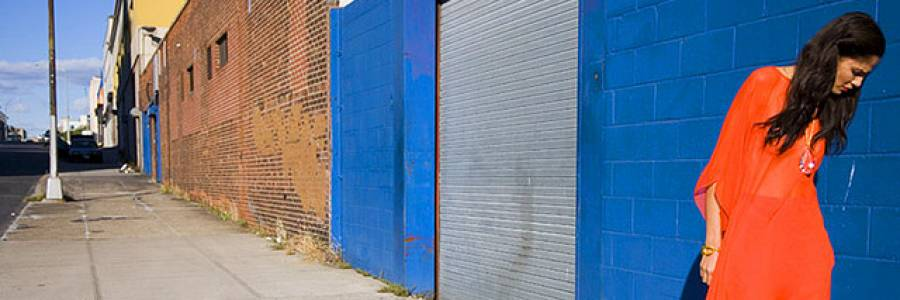
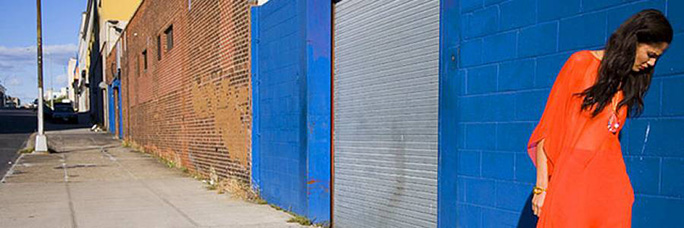
Resized Fashion images and added About Me.

diff --git a/resume/index.html b/resume/index.html
@@ -1,80 +1,36 @@
 <!DOCTYPE html>
-<html>
+<html lang="en">
+	<head>
+  	<meta charset="utf-8">
+  	<meta name="description" content="A simple example of how Javascript can manipulate DOM.">
+    <meta name="keywords" content="General Assembly, Javascript, JS">
 
-<head>
-  <title>Mai Hoang's Resume</title>
-</head>
+   		<title>About Me</title>
 
-<body>
+    <link href='http://fonts.googleapis.com/css?family=Nixie+One' rel='stylesheet' type='text/css'>
+		<link rel="stylesheet" href="css/reset.css">
+		<link rel="stylesheet" href="css/style.css">
 
-<br>
-<br>
+	</head>
+	<body>
+		<div id="container">
+      <header><h3>Mai N. Hoang</h3></header>
+      <p class="centeredimg"><img src="resume.jpg" title="In deep thought about ZZZzzz..."></p>
+      <div class="gianttex">About me...</div>
+      <div class="bigtex">Fashion Designer/Pattern Maker by day,<br>
+        Bartender/Therapist by night,<br>
+        And Front End Developer in the making...</div>
+        <p>Born in Hong Kong & raised in Houston, Tx; I am currently based in the lovely city of Los Angeles.
+          I love all things logic & design.
+          In my spare time, I enjoy spending time with my pups, cooking, & traveling.</p>
+          <div>
+                <a href="resume.html" class="button">Check out my resume!</a>
+          </div>
+          <footer>
+    <p>&copy; Mai N. Hoang</p>
+  </footer>
 
-<header>
-<center>
-  <span style="font-size: 24px;"><b><u>Mai N. Hoang</u></b></span><br>
-  516 S. Alexandria Ave Apt 107, Los Angeles, CA 90020<br>
-  (832) 677-0935<br>
-  <a href="http://mnhoang.80@gmail.com">mnhoang.80@gmail.com</a>
-</center>
-</header>
-
-<br>
-
-<section>
-<h1><center><u>Certifications & Technical Skills</u></center></h1>
-<ul>
-  <li>ServSafe Alcohol Certification</li>
-  <li>California Food Handler Certification</li>
-  <li>Proficient in Aloha POS & Digital Dining POS Systems</li>
-</ul>
-</section>
-
-<section>
-<h1><center><u>Experience</u></center></h1>
-<ul>
-  <li><b>Rocco's Tavern</b> - Culver City, CA - (310) 559-5500<br>
-    2012 - Present.  <i>Bartender.</i></li>
-  <li><b>The Dog House Tavern</b> - Houston, TX - (713) 520-1118<br>
-    2008 - 2011.  <i>Bartender.</i></li>
-  <li><b>The Tavern on West Gray</b> - Houston, TX - (713) 522-5152<br>
-    2006 - 2011.  <i>Bartender.</i></li>
-  <li><b>Arturo's Uptown Italiano</b> - Houston, TX - (713) 621-1180<br>
-    2005 - 2008.  <i>Bartender.</i></li>
-  <li><b>The Fish</b> - Houston, TX - (713) 526-5294<br>
-    2004 - 2006.  <i>Bartender.</i></li>
-  <li><b>Little Woodrows</b> - Houston, TX - (713) 520-0449<br>
-    2001 - 2005.  <i>Bartender.</i></li>
-</section>
-
-<section>
-<center>
-<h1><u>Education</u></h1>
-<p><b>Houston Community College</b><br>
-  1999 - 2001. Studied Graphic Design & Web Development.</p>
-<p><b>Los Angeles Trade Technical College</b><br>
-  2012 - 2014. Graduated with Associate in Arts, Fashion Design.</p>
-</center>
-</section>
-
-<footer>
-<center>
-<h2><u>References</u></h2>
-<p><b>Michael Collins, </b><i>Owner / Operator.</i><br>
-    The Fish - (832) 573-6922<br>
-   <b>Yeme Deneke, </b><i>Food & Beverage Director.</i><br>
-    Crowne Plaza Hotel - (832) 603-3667<br>
-   <b>Greg Lehmann, </b><i>Owner / Operator.</i><br>
-    The Dog House Tavern - (713) 203-2736<br>
-   <b>Will Smith, </b><i>Owner / Operator.</i><br>
-    Little Woodrows - (512) 825-6786<br>
-   <b>Charlie Watkins, </b><i>Owner / Operator.</i><br>
-    The Tavern on West Gray - (713) 291-1654</p>
-</center>
-</footer>
-
-<br>
-<br>
-
-</body>
+		</div><!-- #container -->
+		<script src="js/app.js"></script>
+	</body>
 </html>

diff --git a/fashion_blog_part1/index.html b/fashion_blog_part1/index.html
@@ -1,5 +1,5 @@
 <!--Add CSS to the page. When complete it should look like Fashion_Blog.png
-Do you see new tags? Look them up so you are growing your tag vocabulary. 
+Do you see new tags? Look them up so you are growing your tag vocabulary.
 Bonus: Google <footer> </footer> tag and implement the page footer.
 Add Google Fonts.
 -->
@@ -9,37 +9,56 @@ Add Google Fonts.
 <head>
 	<meta charset="utf-8">
 	<title>Sartre’s List</title>
-	
+	<link href='http://fonts.googleapis.com/css?family=Lato:300' rel='stylesheet' type='text/css'>
+	<link rel="stylesheet" href="css/style.css">
 </head>
 <body>
+	<div id="container">
 	<header>
-		<h1><a href="index.html">Sartre’s List</a></h1>
+		<h1><a href="index.html" class="link">Sartre’s List</a></h1>
 		<h2>Better-Dressed People</h2>
 		<nav>
-			<a href="#">Women’s</a>
-			<a href="#">Men’s</a>
-			<a href="#">On the Street</a>
-			<a href="#">The Catwalk</a>
-			<a href="#">AdWatch</a>
-			<a href="#">About</a>
+			<a href="#" class="link-1">Women’s</a>
+			<a href="#" class="link-1">Men’s</a>
+			<a href="#" class="link-1">On the Street</a>
+			<a href="#" class="link-1">The Catwalk</a>
+			<a href="#" class="link-1">AdWatch</a>
+			<a href="#" class="link-1">About</a>
 		</nav>
 	</header>
 
 	<article>
 		<h3>11/12/13</h3>
 		<h2><a href="#">On the Street in Brooklyn</a></h2>
-		<img src="INSERT IMG and PATH">
+		<img src="fashion_photo.jpeg">
 		<p>Cray culpa stumptown, flexitarian ex Odd Future do fugiat Wes Anderson proident 3 wolf moon officia bitters small batch. Et consequat do, nulla you probably haven’t heard of them High Life scenester. Vinyl fugiat High Life, kogi do VHS in aliqua lo-fi leggings gentrify Neutra tumblr. Odio vegan PBR, Marfa forage blue bottle try-hard readymade meggings retro delectus Echo Park. Ugh consectetur farm-to-table forage, laboris blue bottle McSweeney’s tattooed excepteur yr. Magna ut Schlitz flexitarian, vinyl craft beer proident yr forage 8-bit ethical sustainable placeat retro. Officia pickled beard, adipisicing gluten-free sint craft beer quis thundercats id 3 wolf moon fashion axe.</p>
-		<h4><a href="#">Continues...</a></h4>
+		<h4><a href="#" class="link">Continues...</a></h4>
 	</article>
 
 	<article>
 		<h3>11/11/13</h3>
 		<h2><a href="#">Vintage in Vogue</a></h2>
-		<img src="INSERT IMG and PATH">
+		<img src="fashion_photo2.jpeg">
 		<p>Selfies sunt Tumblr, delectus small batch DIY umami sint. Polaroid chambray selfies McSweeney's Cosby sweater, Pitchfork tattooed assumenda Wes Anderson Blue Bottle twee Carles ennui. Nisi locavore fugiat sapiente salvia aliqua. Shoreditch kogi exercitation fashion axe. Wolf semiotics Pinterest, laboris quis master cleanse tousled small batch street art bespoke fingerstache dreamcatcher ethical labore. Dreamcatcher iPhone typewriter, tote bag four loko fanny pack master cleanse organic PBR reprehenderit actually. Craft beer drinking vinegar wayfarers, pork belly narwhal pariatur polaroid cupidatat in 8-bit distillery anim literally.</p>
-		<h4><a href="#">Continues...</a></h4>
+		<h4><a href="#" class="link">Continues...</a></h4>
 	</article>
 
+
+<footer>
+	<nav>
+		<a href="#" class="link">Home</a>
+		<a href="#" class="link">Women’s</a>
+		<a href="#" class="link">Men’s</a>
+		<a href="#" class="link">On the Street</a>
+		<a href="#" class="link">The Catwalk</a>
+		<a href="#" class="link">AdWatch</a>
+		<a href="#" class="link">About</a>
+		<a href="#" class="link">Tips</a>
+	</nav>
+	<p>2013 Valet Industries, Inc.</p>
+
+</footer>
+
+</div>
 </body>
 </html>

diff --git a/resume/resume.html b/resume/resume.html
@@ -1,0 +1,83 @@
+<!DOCTYPE html>
+<html>
+
+<head>
+  <title>Mai Hoang's Resume</title>
+  <link href='http://fonts.googleapis.com/css?family=Nixie+One' rel='stylesheet' type='text/css'>
+  <link rel="stylesheet" href="css/reset.css">
+  <link rel="stylesheet" href="css/style.css">
+</head>
+
+<body>
+
+<br>
+<br>
+
+<header>
+<center>
+  <a href="index.html">Mai N. Hoang</a><br>
+  516 S. Alexandria Ave Apt 107, Los Angeles, CA 90020<br>
+  (832) 677-0935<br>
+  <a href="http://mnhoang.80@gmail.com">mnhoang.80@gmail.com</a>
+</center>
+</header>
+
+<br>
+
+<section>
+<h1><center><u>Certifications & Technical Skills</u></center></h1>
+<ul>
+  <li>ServSafe Alcohol Certification</li>
+  <li>California Food Handler Certification</li>
+  <li>Proficient in Aloha POS & Digital Dining POS Systems</li>
+</ul>
+</section>
+
+<section>
+<h1><center><u>Experience</u></center></h1>
+<ul>
+  <li><b>Rocco's Tavern</b> - Culver City, CA - (310) 559-5500<br>
+    2012 - Present.  <i>Bartender.</i></li>
+  <li><b>The Dog House Tavern</b> - Houston, TX - (713) 520-1118<br>
+    2008 - 2011.  <i>Bartender.</i></li>
+  <li><b>The Tavern on West Gray</b> - Houston, TX - (713) 522-5152<br>
+    2006 - 2011.  <i>Bartender.</i></li>
+  <li><b>Arturo's Uptown Italiano</b> - Houston, TX - (713) 621-1180<br>
+    2005 - 2008.  <i>Bartender.</i></li>
+  <li><b>The Fish</b> - Houston, TX - (713) 526-5294<br>
+    2004 - 2006.  <i>Bartender.</i></li>
+  <li><b>Little Woodrows</b> - Houston, TX - (713) 520-0449<br>
+    2001 - 2005.  <i>Bartender.</i></li>
+</section>
+
+<section>
+<center>
+<h1><u>Education</u></h1>
+<p><b>Houston Community College</b><br>
+  1999 - 2001. Studied Graphic Design & Web Development.</p>
+<p><b>Los Angeles Trade Technical College</b><br>
+  2012 - 2014. Graduated with Associate in Arts, Fashion Design.</p>
+</center>
+</section>
+
+<footer>
+<center>
+<h2><u>References</u></h2>
+<p><b>Michael Collins, </b><i>Owner / Operator.</i><br>
+    The Fish - (832) 573-6922<br>
+   <b>Yeme Deneke, </b><i>Food & Beverage Director.</i><br>
+    Crowne Plaza Hotel - (832) 603-3667<br>
+   <b>Greg Lehmann, </b><i>Owner / Operator.</i><br>
+    The Dog House Tavern - (713) 203-2736<br>
+   <b>Will Smith, </b><i>Owner / Operator.</i><br>
+    Little Woodrows - (512) 825-6786<br>
+   <b>Charlie Watkins, </b><i>Owner / Operator.</i><br>
+    The Tavern on West Gray - (713) 291-1654</p>
+</center>
+</footer>
+
+<br>
+<br>
+
+</body>
+</html>

diff --git a/resume/css/style.css b/resume/css/style.css
@@ -1,0 +1,57 @@
+* {
+  box-sizing: border-box;
+}
+
+
+body {
+  color: #121212;
+  font-size: 18px;
+  line-height: normal;
+  font-family: 'Nixie One', cursive;
+  background-color: #FFFFFF;
+}
+
+
+header {
+  text-align: center;
+  text-decoration: none;
+  padding-top: 50px;
+  padding-bottom: 40px;
+}
+
+#container {
+  width: 60%;
+  height: auto;
+  position: relative;
+  left: 20%;
+  background-color: #FFFFFF;
+}
+
+
+.centeredimg {
+  text-align:center;
+  margin-top:0px;
+  margin-bottom:0px;
+  padding:0px;
+}
+
+
+.gianttex {
+  font-size: 60px;
+  font-weight: bolder;
+  color: #f30000;
+  padding-top: 30px;
+}
+
+
+.bigtex {
+  font-size: 40px;
+  color: #121212;
+  line-height: normal;
+  padding-top: 20px;
+}
+
+
+footer {
+  font-size: 10px;
+}

diff --git a/fashion_blog_part1/css/style.css b/fashion_blog_part1/css/style.css
@@ -1,0 +1,29 @@
+body {
+  color: #000000;
+  background: #FFFFFF);
+  font-size: 16px;
+  line-height: 24px;
+  font-family: "lato";
+}
+
+
+* {
+  box-sizing: border-box;
+}
+
+
+#container {
+width: 60%;
+height: auto;
+position: relative;
+}
+
+
+.link {
+  color: #f30000
+}
+
+
+.link-1 {
+  color: #F4F4F4;
+}
